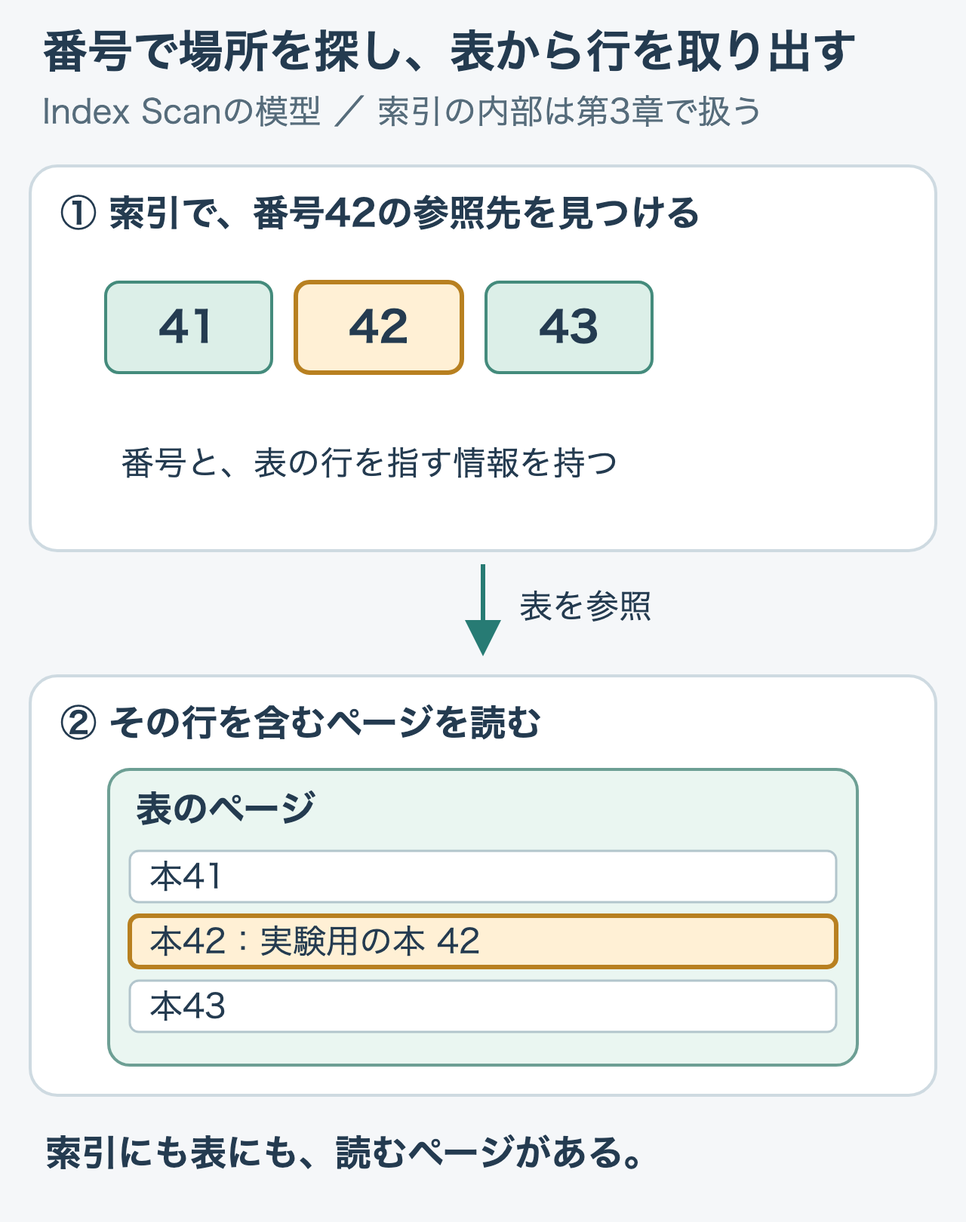
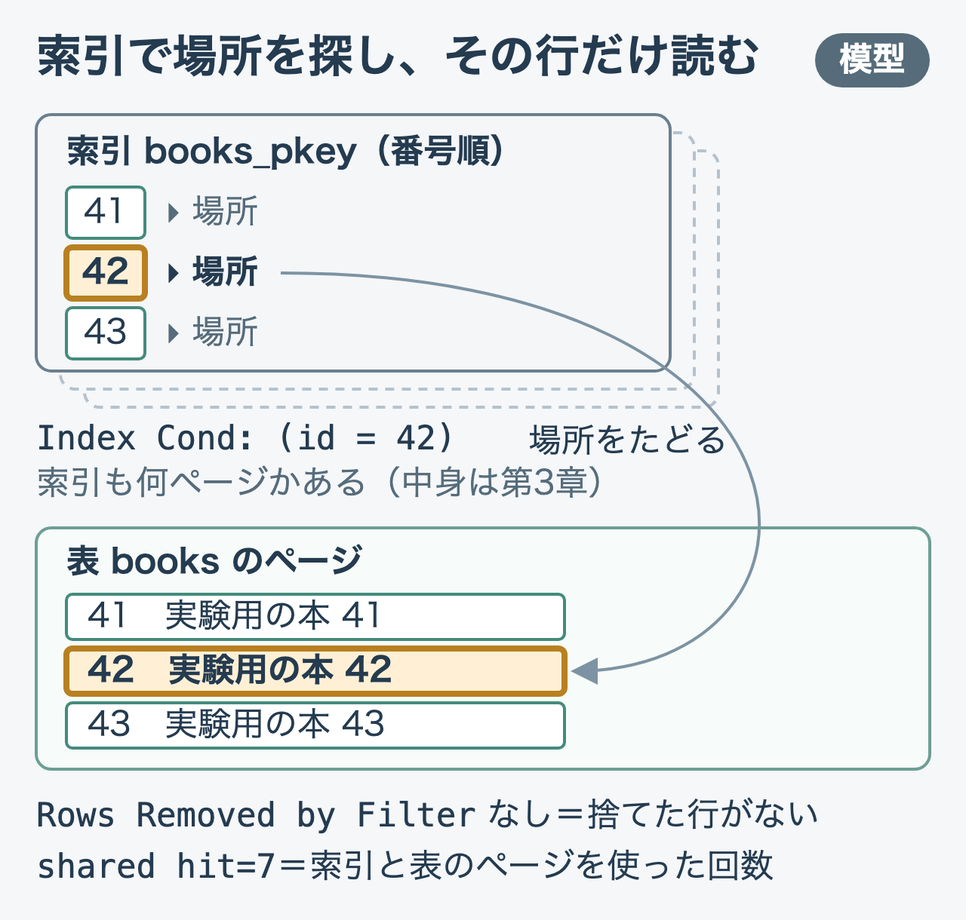
docs(query-journey): 第1章の索引の図で、項目から行への参照を1本の矢印にする
矢印がパネルからパネルへ引かれ、索引の項目がどの行を指すのかが見えなかった。索引の項目を「キー＋場所」で描き、項目42から行42へ参照の矢印を直接引いた。出力の Index Cond・Rows Removed by Filter が出ないこと・shared hit=7 を図の中に書き込んだ。

Changed region(s): [[0.0312, 0.0, 0.9688, 0.9656], [0.9375, 0.8721, 0.9688, 0.9033]]

diff --git a/images/postgresql-query-journey/index.html b/images/postgresql-query-journey/index.html
@@ -1,1 +1,1 @@
-<!doctype html><html lang="ja"><meta charset="utf-8"><meta name="viewport" content="width=device-width, initial-scale=1"><title>PostgreSQL本の図解一覧</title><style>body{margin:0;background:#f3f6f8;color:#243b50;font-family:system-ui,sans-serif}main{max-width:1250px;margin:auto;padding:32px}h1{font-size:28px}p{line-height:1.8}section{margin:48px 0}h2{border-bottom:2px solid #a8c8be;padding-bottom:12px}small{font-weight:400;font-size:16px}.grid{display:grid;grid-template-columns:repeat(3,minmax(0,1fr));gap:20px}article{background:white;border:1px solid #cedae1;border-radius:12px;padding:16px}h3{font-size:16px;min-height:48px}img{width:100%;height:auto;display:block}a{color:#176e65}article p{margin-bottom:0}@media(max-width:900px){.grid{grid-template-columns:repeat(2,minmax(0,1fr))}}@media(max-width:580px){main{padding:16px}.grid{grid-template-columns:1fr}}</style><main><h1>いつものSQLで学ぶデータ構造とアルゴリズム</h1><p>序章から第12章まで、計47枚。全体を見渡す絵、各章のサービスの場面、仕組みを理解する技術図を掲載しています。</p><section><h2>序章 <small>4枚</small></h2><div class="grid"><article><h3>この本で、一緒に調べること</h3><a href="00-book-sketch.png"><img src="00-book-sketch.png" alt="この本で、一緒に調べること" loading="lazy"></a><p><a href="sources/00-book-sketch.svg">SVG原本</a> · <a href="00-book-sketch.png">PNG</a></p></article><article><h3>こんな読書記録サービスを作ります</h3><a href="00-reading-service.png"><img src="00-reading-service.png" alt="こんな読書記録サービスを作ります" loading="lazy"></a><p><a href="sources/00-reading-service.svg">SVG原本</a> · <a href="00-reading-service.png">PNG</a></p></article><article><h3>本の冊数と、読了記録の件数</h3><a href="00-books-and-records.png"><img src="00-books-and-records.png" alt="本の冊数と、読了記録の件数" loading="lazy"></a><p><a href="sources/00-books-and-records.svg">SVG原本</a> · <a href="00-books-and-records.png">PNG</a></p></article><article><h3>20冊を返すまでに、何をしている？</h3><a href="00-ranking-question.png"><img src="00-ranking-question.png" alt="20冊を返すまでに、何をしている？" loading="lazy"></a><p><a href="sources/00-ranking-question.svg">SVG原本</a> · <a href="00-ranking-question.png">PNG</a></p></article></div></section><section><h2>第1章 <small>3枚</small></h2><div class="grid"><article><h3>まずは、1冊だけ探してみる</h3><a href="01-search-window.png"><img src="01-search-window.png" alt="まずは、1冊だけ探してみる" loading="lazy"></a><p><a href="sources/01-search-window.svg">SVG原本</a> · <a href="01-search-window.png">PNG</a></p></article><article><h3>1行のために、100万行を比べた</h3><a href="01-scan-and-filter.png"><img src="01-scan-and-filter.png" alt="1行のために、100万行を比べた" loading="lazy"></a><p><a href="sources/01-scan-and-filter.svg">SVG原本</a> · <a href="01-scan-and-filter.png">PNG</a></p></article><article><h3>番号で場所を探し、表から行を取り出す</h3><a href="01-index-to-row.png"><img src="01-index-to-row.png" alt="番号で場所を探し、表から行を取り出す" loading="lazy"></a><p><a href="sources/01-index-to-row.svg">SVG原本</a> · <a href="01-index-to-row.png">PNG</a></p></article></div></section><section><h2>第2章 <small>4枚</small></h2><div class="grid"><article><h3>100万冊から、1冊見つけたら止める？</h3><a href="05-growing-library.png"><img src="05-growing-library.png" alt="100万冊から、1冊見つけたら止める？" loading="lazy"></a><p><a href="sources/05-growing-library.svg">SVG原本</a> · <a href="05-growing-library.png">PNG</a></p></article><article><h3>一致した後も、最後まで比べる</h3><a href="05-linear-scan.png"><img src="05-linear-scan.png" alt="一致した後も、最後まで比べる" loading="lazy"></a><p><a href="sources/05-linear-scan.svg">SVG原本</a> · <a href="05-linear-scan.png">PNG</a></p></article><article><h3>Limitが次の行を求めなくなる</h3><a href="05-limit-search.png"><img src="05-limit-search.png" alt="Limitが次の行を求めなくなる" loading="lazy"></a><p><a href="sources/05-limit-search.svg">SVG原本</a> · <a href="05-limit-search.png">PNG</a></p></article><article><h3>位置で変わる、比べる行数</h3><a href="05-limit-bands.png"><img src="05-limit-bands.png" alt="位置で変わる、比べる行数" loading="lazy"></a><p><a href="sources/05-limit-bands.svg">SVG原本</a> · <a href="05-limit-bands.png">PNG</a></p></article></div></section><section><h2>第3章 <small>3枚</small></h2><div class="grid"><article><h3>8を探す：範囲を選んでから、値を探す</h3><a href="06-btree-path.png"><img src="06-btree-path.png" alt="8を探す：範囲を選んでから、値を探す" loading="lazy"></a><p><a href="sources/06-btree-path.svg">SVG原本</a> · <a href="06-btree-path.png">PNG</a></p></article><article><h3>4以上8以下なら、隣の葉も読む</h3><a href="06-range-scan.png"><img src="06-range-scan.png" alt="4以上8以下なら、隣の葉も読む" loading="lazy"></a><p><a href="sources/06-range-scan.svg">SVG原本</a> · <a href="06-range-scan.png">PNG</a></p></article><article><h3>目録も大きい。それでも速い？</h3><a href="06-catalog-question.png"><img src="06-catalog-question.png" alt="目録も大きい。それでも速い？" loading="lazy"></a><p><a href="sources/06-catalog-question.svg">SVG原本</a> · <a href="06-catalog-question.png">PNG</a></p></article></div></section><section><h2>第4章 <small>5枚</small></h2><div class="grid"><article><h3>索引をたどって、表の行へ届く</h3><a href="03-index-reference.png"><img src="03-index-reference.png" alt="索引をたどって、表の行へ届く" loading="lazy"></a><p><a href="sources/03-index-reference.svg">SVG原本</a> · <a href="03-index-reference.png">PNG</a></p></article><article><h3>表の中にページ、ページの中に行</h3><a href="03-pages-and-rows.png"><img src="03-pages-and-rows.png" alt="表の中にページ、ページの中に行" loading="lazy"></a><p><a href="sources/03-pages-and-rows.svg">SVG原本</a> · <a href="03-pages-and-rows.png">PNG</a></p></article><article><h3>同じ1,000行でも、8ページと32ページ</h3><a href="03-row-width.png"><img src="03-row-width.png" alt="同じ1,000行でも、8ページと32ページ" loading="lazy"></a><p><a href="sources/03-row-width.svg">SVG原本</a> · <a href="03-row-width.png">PNG</a></p></article><article><h3>本の一覧は、どこに保存される？</h3><a href="03-storage-question.png"><img src="03-storage-question.png" alt="本の一覧は、どこに保存される？" loading="lazy"></a><p><a href="sources/03-storage-question.svg">SVG原本</a> · <a href="03-storage-question.png">PNG</a></p></article><article><h3>ctid = (0,1) が指す場所</h3><a href="03-ctid-location.png"><img src="03-ctid-location.png" alt="ctid = (0,1) が指す場所" loading="lazy"></a><p><a href="sources/03-ctid-location.svg">SVG原本</a> · <a href="03-ctid-location.png">PNG</a></p></article></div></section><section><h2>第5章 <small>3枚</small></h2><div class="grid"><article><h3>ページの保存場所と、計算の作業場所</h3><a href="04-memory-regions.png"><img src="04-memory-regions.png" alt="ページの保存場所と、計算の作業場所" loading="lazy"></a><p><a href="sources/04-memory-regions.svg">SVG原本</a> · <a href="04-memory-regions.png">PNG</a></p></article><article><h3>ファイルのページを、メモリで再利用する</h3><a href="shared-buffer-reuse.png"><img src="shared-buffer-reuse.png" alt="ファイルのページを、メモリで再利用する" loading="lazy"></a><p><a href="sources/shared-buffer-reuse.svg">SVG原本</a> · <a href="shared-buffer-reuse.png">PNG</a></p></article><article><h3>同じ検索を、もう一度</h3><a href="04-repeat-observation.png"><img src="04-repeat-observation.png" alt="同じ検索を、もう一度" loading="lazy"></a><p><a href="sources/04-repeat-observation.svg">SVG原本</a> · <a href="04-repeat-observation.png">PNG</a></p></article></div></section><section><h2>第6章 <small>4枚</small></h2><div class="grid"><article><h3>接続ごとにプロセスが動く</h3><a href="02-connections.png"><img src="02-connections.png" alt="接続ごとにプロセスが動く" loading="lazy"></a><p><a href="sources/02-connections.svg">SVG原本</a> · <a href="02-connections.png">PNG</a></p></article><article><h3>Index Scanから、Limitへ行が渡る</h3><a href="02-execution-tree.png"><img src="02-execution-tree.png" alt="Index Scanから、Limitへ行が渡る" loading="lazy"></a><p><a href="sources/02-execution-tree.svg">SVG原本</a> · <a href="02-execution-tree.png">PNG</a></p></article><article><h3>画面の向こうで、SQLが動く</h3><a href="02-client-scene.png"><img src="02-client-scene.png" alt="画面の向こうで、SQLが動く" loading="lazy"></a><p><a href="sources/02-client-scene.svg">SVG原本</a> · <a href="02-client-scene.png">PNG</a></p></article><article><h3>SQLの文字列から、検索結果が返るまで</h3><a href="02-query-stages.png"><img src="02-query-stages.png" alt="SQLの文字列から、検索結果が返るまで" loading="lazy"></a><p><a href="sources/02-query-stages.svg">SVG原本</a> · <a href="02-query-stages.png">PNG</a></p></article></div></section><section><h2>第7章 <small>3枚</small></h2><div class="grid"><article><h3>メモリに収まらないときの並べ替え</h3><a href="07-external-sort.png"><img src="07-external-sort.png" alt="メモリに収まらないときの並べ替え" loading="lazy"></a><p><a href="sources/07-external-sort.svg">SVG原本</a> · <a href="07-external-sort.png">PNG</a></p></article><article><h3>二つの並びを、比べながら合流する</h3><a href="07-merge-cards.png"><img src="07-merge-cards.png" alt="二つの並びを、比べながら合流する" loading="lazy"></a><p><a href="sources/07-merge-cards.svg">SVG原本</a> · <a href="07-merge-cards.png">PNG</a></p></article><article><h3>読み終えた順に、並べたい</h3><a href="07-recent-records.png"><img src="07-recent-records.png" alt="読み終えた順に、並べたい" loading="lazy"></a><p><a href="sources/07-recent-records.svg">SVG原本</a> · <a href="07-recent-records.png">PNG</a></p></article></div></section><section><h2>第8章 <small>3枚</small></h2><div class="grid"><article><h3>候補を絞る方法と、途中で止まる方法</h3><a href="08-top-n-vs-index.png"><img src="08-top-n-vs-index.png" alt="候補を絞る方法と、途中で止まる方法" loading="lazy"></a><p><a href="sources/08-top-n-vs-index.svg">SVG原本</a> · <a href="08-top-n-vs-index.png">PNG</a></p></article><article><h3>上位3枚を保つ：入れ替えるのはどれ？</h3><a href="top-three-heap.png"><img src="top-three-heap.png" alt="上位3枚を保つ：入れ替えるのはどれ？" loading="lazy"></a><p><a href="sources/top-three-heap.svg">SVG原本</a> · <a href="top-three-heap.png">PNG</a></p></article><article><h3>画面に欲しいのは、最新20件</h3><a href="08-twenty-window.png"><img src="08-twenty-window.png" alt="画面に欲しいのは、最新20件" loading="lazy"></a><p><a href="sources/08-twenty-window.svg">SVG原本</a> · <a href="08-twenty-window.png">PNG</a></p></article></div></section><section><h2>第9章 <small>4枚</small></h2><div class="grid"><article><h3>先に分類し、同じ箱の中で照合する</h3><a href="09-hash-join.png"><img src="09-hash-join.png" alt="先に分類し、同じ箱の中で照合する" loading="lazy"></a><p><a href="sources/09-hash-join.svg">SVG原本</a> · <a href="09-hash-join.png">PNG</a></p></article><article><h3>並んだ二つの入力を、先頭から合わせる</h3><a href="09-merge-join.png"><img src="09-merge-join.png" alt="並んだ二つの入力を、先頭から合わせる" loading="lazy"></a><p><a href="sources/09-merge-join.svg">SVG原本</a> · <a href="09-merge-join.png">PNG</a></p></article><article><h3>記録を1件取り出すたびに、本を探す</h3><a href="09-nested-loop.png"><img src="09-nested-loop.png" alt="記録を1件取り出すたびに、本を探す" loading="lazy"></a><p><a href="sources/09-nested-loop.svg">SVG原本</a> · <a href="09-nested-loop.png">PNG</a></p></article><article><h3>本の番号だけでは、題名が分からない</h3><a href="09-title-lookup.png"><img src="09-title-lookup.png" alt="本の番号だけでは、題名が分からない" loading="lazy"></a><p><a href="sources/09-title-lookup.svg">SVG原本</a> · <a href="09-title-lookup.png">PNG</a></p></article></div></section><section><h2>第10章 <small>3枚</small></h2><div class="grid"><article><h3>入口の見積もりが、後ろの判断に響く</h3><a href="10-estimate-propagation.png"><img src="10-estimate-propagation.png" alt="入口の見積もりが、後ろの判断に響く" loading="lazy"></a><p><a href="sources/10-estimate-propagation.svg">SVG原本</a> · <a href="10-estimate-propagation.png">PNG</a></p></article><article><h3>同じ「1種類」でも、9,000行と1,000行</h3><a href="10-selectivity.png"><img src="10-selectivity.png" alt="同じ「1種類」でも、9,000行と1,000行" loading="lazy"></a><p><a href="sources/10-selectivity.svg">SVG原本</a> · <a href="10-selectivity.png">PNG</a></p></article><article><h3>索引があるのに、なぜ使わない？</h3><a href="10-planner-choice.png"><img src="10-planner-choice.png" alt="索引があるのに、なぜ使わない？" loading="lazy"></a><p><a href="sources/10-planner-choice.svg">SVG原本</a> · <a href="10-planner-choice.png">PNG</a></p></article></div></section><section><h2>第11章 <small>4枚</small></h2><div class="grid"><article><h3>読む時点によって、見える版が変わる</h3><a href="11-snapshots.png"><img src="11-snapshots.png" alt="読む時点によって、見える版が変わる" loading="lazy"></a><p><a href="sources/11-snapshots.svg">SVG原本</a> · <a href="11-snapshots.png">PNG</a></p></article><article><h3>索引だけで返せるかは、可視性にもよる</h3><a href="11-visibility-map.png"><img src="11-visibility-map.png" alt="索引だけで返せるかは、可視性にもよる" loading="lazy"></a><p><a href="sources/11-visibility-map.svg">SVG原本</a> · <a href="11-visibility-map.png">PNG</a></p></article><article><h3>ログの保存と、ページの書き出し</h3><a href="11-wal-and-pages.png"><img src="11-wal-and-pages.png" alt="ログの保存と、ページの書き出し" loading="lazy"></a><p><a href="sources/11-wal-and-pages.svg">SVG原本</a> · <a href="11-wal-and-pages.png">PNG</a></p></article><article><h3>題名を直している間に、読まれたら？</h3><a href="11-editing-scene.png"><img src="11-editing-scene.png" alt="題名を直している間に、読まれたら？" loading="lazy"></a><p><a href="sources/11-editing-scene.svg">SVG原本</a> · <a href="11-editing-scene.png">PNG</a></p></article></div></section><section><h2>第12章 <small>4枚</small></h2><div class="grid"><article><h3>表示は軽くなる。集計の更新は必要。</h3><a href="12-preaggregation.png"><img src="12-preaggregation.png" alt="表示は軽くなる。集計の更新は必要。" loading="lazy"></a><p><a href="sources/12-preaggregation.svg">SVG原本</a> · <a href="12-preaggregation.png">PNG</a></p></article><article><h3>上位を選んでから題名を付ける</h3><a href="12-ranking-after.png"><img src="12-ranking-after.png" alt="上位を選んでから題名を付ける" loading="lazy"></a><p><a href="sources/12-ranking-after.svg">SVG原本</a> · <a href="12-ranking-after.png">PNG</a></p></article><article><h3>題名を付けてから、上位を選ぶ</h3><a href="12-ranking-before.png"><img src="12-ranking-before.png" alt="題名を付けてから、上位を選ぶ" loading="lazy"></a><p><a href="sources/12-ranking-before.svg">SVG原本</a> · <a href="12-ranking-before.png">PNG</a></p></article><article><h3>今度は、根拠を持って選べる</h3><a href="12-decision-notebook.png"><img src="12-decision-notebook.png" alt="今度は、根拠を持って選べる" loading="lazy"></a><p><a href="sources/12-decision-notebook.svg">SVG原本</a> · <a href="12-decision-notebook.png">PNG</a></p></article></div></section></main></html>
+<!doctype html><html lang="ja"><meta charset="utf-8"><meta name="viewport" content="width=device-width, initial-scale=1"><title>PostgreSQL本の図解一覧</title><style>body{margin:0;background:#f3f6f8;color:#243b50;font-family:system-ui,sans-serif}main{max-width:1250px;margin:auto;padding:32px}h1{font-size:28px}p{line-height:1.8}section{margin:48px 0}h2{border-bottom:2px solid #a8c8be;padding-bottom:12px}small{font-weight:400;font-size:16px}.grid{display:grid;grid-template-columns:repeat(3,minmax(0,1fr));gap:20px}article{background:white;border:1px solid #cedae1;border-radius:12px;padding:16px}h3{font-size:16px;min-height:48px}img{width:100%;height:auto;display:block}a{color:#176e65}article p{margin-bottom:0}@media(max-width:900px){.grid{grid-template-columns:repeat(2,minmax(0,1fr))}}@media(max-width:580px){main{padding:16px}.grid{grid-template-columns:1fr}}</style><main><h1>いつものSQLで学ぶデータ構造とアルゴリズム</h1><p>序章から第12章まで、計47枚。全体を見渡す絵、各章のサービスの場面、仕組みを理解する技術図を掲載しています。</p><section><h2>序章 <small>4枚</small></h2><div class="grid"><article><h3>この本で、一緒に調べること</h3><a href="00-book-sketch.png"><img src="00-book-sketch.png" alt="この本で、一緒に調べること" loading="lazy"></a><p><a href="sources/00-book-sketch.svg">SVG原本</a> · <a href="00-book-sketch.png">PNG</a></p></article><article><h3>こんな読書記録サービスを作ります</h3><a href="00-reading-service.png"><img src="00-reading-service.png" alt="こんな読書記録サービスを作ります" loading="lazy"></a><p><a href="sources/00-reading-service.svg">SVG原本</a> · <a href="00-reading-service.png">PNG</a></p></article><article><h3>本の冊数と、読了記録の件数</h3><a href="00-books-and-records.png"><img src="00-books-and-records.png" alt="本の冊数と、読了記録の件数" loading="lazy"></a><p><a href="sources/00-books-and-records.svg">SVG原本</a> · <a href="00-books-and-records.png">PNG</a></p></article><article><h3>20冊を返すまでに、何をしている？</h3><a href="00-ranking-question.png"><img src="00-ranking-question.png" alt="20冊を返すまでに、何をしている？" loading="lazy"></a><p><a href="sources/00-ranking-question.svg">SVG原本</a> · <a href="00-ranking-question.png">PNG</a></p></article></div></section><section><h2>第1章 <small>3枚</small></h2><div class="grid"><article><h3>まずは、1冊だけ探してみる</h3><a href="01-search-window.png"><img src="01-search-window.png" alt="まずは、1冊だけ探してみる" loading="lazy"></a><p><a href="sources/01-search-window.svg">SVG原本</a> · <a href="01-search-window.png">PNG</a></p></article><article><h3>1行のために、100万行を比べた</h3><a href="01-scan-and-filter.png"><img src="01-scan-and-filter.png" alt="1行のために、100万行を比べた" loading="lazy"></a><p><a href="sources/01-scan-and-filter.svg">SVG原本</a> · <a href="01-scan-and-filter.png">PNG</a></p></article><article><h3>索引で場所を探し、その行だけ読む</h3><a href="01-index-to-row.png"><img src="01-index-to-row.png" alt="索引で場所を探し、その行だけ読む" loading="lazy"></a><p><a href="sources/01-index-to-row.svg">SVG原本</a> · <a href="01-index-to-row.png">PNG</a></p></article></div></section><section><h2>第2章 <small>4枚</small></h2><div class="grid"><article><h3>100万冊から、1冊見つけたら止める？</h3><a href="05-growing-library.png"><img src="05-growing-library.png" alt="100万冊から、1冊見つけたら止める？" loading="lazy"></a><p><a href="sources/05-growing-library.svg">SVG原本</a> · <a href="05-growing-library.png">PNG</a></p></article><article><h3>一致した後も、最後まで比べる</h3><a href="05-linear-scan.png"><img src="05-linear-scan.png" alt="一致した後も、最後まで比べる" loading="lazy"></a><p><a href="sources/05-linear-scan.svg">SVG原本</a> · <a href="05-linear-scan.png">PNG</a></p></article><article><h3>Limitが次の行を求めなくなる</h3><a href="05-limit-search.png"><img src="05-limit-search.png" alt="Limitが次の行を求めなくなる" loading="lazy"></a><p><a href="sources/05-limit-search.svg">SVG原本</a> · <a href="05-limit-search.png">PNG</a></p></article><article><h3>位置で変わる、比べる行数</h3><a href="05-limit-bands.png"><img src="05-limit-bands.png" alt="位置で変わる、比べる行数" loading="lazy"></a><p><a href="sources/05-limit-bands.svg">SVG原本</a> · <a href="05-limit-bands.png">PNG</a></p></article></div></section><section><h2>第3章 <small>3枚</small></h2><div class="grid"><article><h3>8を探す：範囲を選んでから、値を探す</h3><a href="06-btree-path.png"><img src="06-btree-path.png" alt="8を探す：範囲を選んでから、値を探す" loading="lazy"></a><p><a href="sources/06-btree-path.svg">SVG原本</a> · <a href="06-btree-path.png">PNG</a></p></article><article><h3>4以上8以下なら、隣の葉も読む</h3><a href="06-range-scan.png"><img src="06-range-scan.png" alt="4以上8以下なら、隣の葉も読む" loading="lazy"></a><p><a href="sources/06-range-scan.svg">SVG原本</a> · <a href="06-range-scan.png">PNG</a></p></article><article><h3>目録も大きい。それでも速い？</h3><a href="06-catalog-question.png"><img src="06-catalog-question.png" alt="目録も大きい。それでも速い？" loading="lazy"></a><p><a href="sources/06-catalog-question.svg">SVG原本</a> · <a href="06-catalog-question.png">PNG</a></p></article></div></section><section><h2>第4章 <small>5枚</small></h2><div class="grid"><article><h3>索引をたどって、表の行へ届く</h3><a href="03-index-reference.png"><img src="03-index-reference.png" alt="索引をたどって、表の行へ届く" loading="lazy"></a><p><a href="sources/03-index-reference.svg">SVG原本</a> · <a href="03-index-reference.png">PNG</a></p></article><article><h3>表の中にページ、ページの中に行</h3><a href="03-pages-and-rows.png"><img src="03-pages-and-rows.png" alt="表の中にページ、ページの中に行" loading="lazy"></a><p><a href="sources/03-pages-and-rows.svg">SVG原本</a> · <a href="03-pages-and-rows.png">PNG</a></p></article><article><h3>同じ1,000行でも、8ページと32ページ</h3><a href="03-row-width.png"><img src="03-row-width.png" alt="同じ1,000行でも、8ページと32ページ" loading="lazy"></a><p><a href="sources/03-row-width.svg">SVG原本</a> · <a href="03-row-width.png">PNG</a></p></article><article><h3>本の一覧は、どこに保存される？</h3><a href="03-storage-question.png"><img src="03-storage-question.png" alt="本の一覧は、どこに保存される？" loading="lazy"></a><p><a href="sources/03-storage-question.svg">SVG原本</a> · <a href="03-storage-question.png">PNG</a></p></article><article><h3>ctid = (0,1) が指す場所</h3><a href="03-ctid-location.png"><img src="03-ctid-location.png" alt="ctid = (0,1) が指す場所" loading="lazy"></a><p><a href="sources/03-ctid-location.svg">SVG原本</a> · <a href="03-ctid-location.png">PNG</a></p></article></div></section><section><h2>第5章 <small>3枚</small></h2><div class="grid"><article><h3>ページの保存場所と、計算の作業場所</h3><a href="04-memory-regions.png"><img src="04-memory-regions.png" alt="ページの保存場所と、計算の作業場所" loading="lazy"></a><p><a href="sources/04-memory-regions.svg">SVG原本</a> · <a href="04-memory-regions.png">PNG</a></p></article><article><h3>ファイルのページを、メモリで再利用する</h3><a href="shared-buffer-reuse.png"><img src="shared-buffer-reuse.png" alt="ファイルのページを、メモリで再利用する" loading="lazy"></a><p><a href="sources/shared-buffer-reuse.svg">SVG原本</a> · <a href="shared-buffer-reuse.png">PNG</a></p></article><article><h3>同じ検索を、もう一度</h3><a href="04-repeat-observation.png"><img src="04-repeat-observation.png" alt="同じ検索を、もう一度" loading="lazy"></a><p><a href="sources/04-repeat-observation.svg">SVG原本</a> · <a href="04-repeat-observation.png">PNG</a></p></article></div></section><section><h2>第6章 <small>4枚</small></h2><div class="grid"><article><h3>接続ごとにプロセスが動く</h3><a href="02-connections.png"><img src="02-connections.png" alt="接続ごとにプロセスが動く" loading="lazy"></a><p><a href="sources/02-connections.svg">SVG原本</a> · <a href="02-connections.png">PNG</a></p></article><article><h3>Index Scanから、Limitへ行が渡る</h3><a href="02-execution-tree.png"><img src="02-execution-tree.png" alt="Index Scanから、Limitへ行が渡る" loading="lazy"></a><p><a href="sources/02-execution-tree.svg">SVG原本</a> · <a href="02-execution-tree.png">PNG</a></p></article><article><h3>画面の向こうで、SQLが動く</h3><a href="02-client-scene.png"><img src="02-client-scene.png" alt="画面の向こうで、SQLが動く" loading="lazy"></a><p><a href="sources/02-client-scene.svg">SVG原本</a> · <a href="02-client-scene.png">PNG</a></p></article><article><h3>SQLの文字列から、検索結果が返るまで</h3><a href="02-query-stages.png"><img src="02-query-stages.png" alt="SQLの文字列から、検索結果が返るまで" loading="lazy"></a><p><a href="sources/02-query-stages.svg">SVG原本</a> · <a href="02-query-stages.png">PNG</a></p></article></div></section><section><h2>第7章 <small>3枚</small></h2><div class="grid"><article><h3>メモリに収まらないときの並べ替え</h3><a href="07-external-sort.png"><img src="07-external-sort.png" alt="メモリに収まらないときの並べ替え" loading="lazy"></a><p><a href="sources/07-external-sort.svg">SVG原本</a> · <a href="07-external-sort.png">PNG</a></p></article><article><h3>二つの並びを、比べながら合流する</h3><a href="07-merge-cards.png"><img src="07-merge-cards.png" alt="二つの並びを、比べながら合流する" loading="lazy"></a><p><a href="sources/07-merge-cards.svg">SVG原本</a> · <a href="07-merge-cards.png">PNG</a></p></article><article><h3>読み終えた順に、並べたい</h3><a href="07-recent-records.png"><img src="07-recent-records.png" alt="読み終えた順に、並べたい" loading="lazy"></a><p><a href="sources/07-recent-records.svg">SVG原本</a> · <a href="07-recent-records.png">PNG</a></p></article></div></section><section><h2>第8章 <small>3枚</small></h2><div class="grid"><article><h3>候補を絞る方法と、途中で止まる方法</h3><a href="08-top-n-vs-index.png"><img src="08-top-n-vs-index.png" alt="候補を絞る方法と、途中で止まる方法" loading="lazy"></a><p><a href="sources/08-top-n-vs-index.svg">SVG原本</a> · <a href="08-top-n-vs-index.png">PNG</a></p></article><article><h3>上位3枚を保つ：入れ替えるのはどれ？</h3><a href="top-three-heap.png"><img src="top-three-heap.png" alt="上位3枚を保つ：入れ替えるのはどれ？" loading="lazy"></a><p><a href="sources/top-three-heap.svg">SVG原本</a> · <a href="top-three-heap.png">PNG</a></p></article><article><h3>画面に欲しいのは、最新20件</h3><a href="08-twenty-window.png"><img src="08-twenty-window.png" alt="画面に欲しいのは、最新20件" loading="lazy"></a><p><a href="sources/08-twenty-window.svg">SVG原本</a> · <a href="08-twenty-window.png">PNG</a></p></article></div></section><section><h2>第9章 <small>4枚</small></h2><div class="grid"><article><h3>先に分類し、同じ箱の中で照合する</h3><a href="09-hash-join.png"><img src="09-hash-join.png" alt="先に分類し、同じ箱の中で照合する" loading="lazy"></a><p><a href="sources/09-hash-join.svg">SVG原本</a> · <a href="09-hash-join.png">PNG</a></p></article><article><h3>並んだ二つの入力を、先頭から合わせる</h3><a href="09-merge-join.png"><img src="09-merge-join.png" alt="並んだ二つの入力を、先頭から合わせる" loading="lazy"></a><p><a href="sources/09-merge-join.svg">SVG原本</a> · <a href="09-merge-join.png">PNG</a></p></article><article><h3>記録を1件取り出すたびに、本を探す</h3><a href="09-nested-loop.png"><img src="09-nested-loop.png" alt="記録を1件取り出すたびに、本を探す" loading="lazy"></a><p><a href="sources/09-nested-loop.svg">SVG原本</a> · <a href="09-nested-loop.png">PNG</a></p></article><article><h3>本の番号だけでは、題名が分からない</h3><a href="09-title-lookup.png"><img src="09-title-lookup.png" alt="本の番号だけでは、題名が分からない" loading="lazy"></a><p><a href="sources/09-title-lookup.svg">SVG原本</a> · <a href="09-title-lookup.png">PNG</a></p></article></div></section><section><h2>第10章 <small>3枚</small></h2><div class="grid"><article><h3>入口の見積もりが、後ろの判断に響く</h3><a href="10-estimate-propagation.png"><img src="10-estimate-propagation.png" alt="入口の見積もりが、後ろの判断に響く" loading="lazy"></a><p><a href="sources/10-estimate-propagation.svg">SVG原本</a> · <a href="10-estimate-propagation.png">PNG</a></p></article><article><h3>同じ「1種類」でも、9,000行と1,000行</h3><a href="10-selectivity.png"><img src="10-selectivity.png" alt="同じ「1種類」でも、9,000行と1,000行" loading="lazy"></a><p><a href="sources/10-selectivity.svg">SVG原本</a> · <a href="10-selectivity.png">PNG</a></p></article><article><h3>索引があるのに、なぜ使わない？</h3><a href="10-planner-choice.png"><img src="10-planner-choice.png" alt="索引があるのに、なぜ使わない？" loading="lazy"></a><p><a href="sources/10-planner-choice.svg">SVG原本</a> · <a href="10-planner-choice.png">PNG</a></p></article></div></section><section><h2>第11章 <small>4枚</small></h2><div class="grid"><article><h3>読む時点によって、見える版が変わる</h3><a href="11-snapshots.png"><img src="11-snapshots.png" alt="読む時点によって、見える版が変わる" loading="lazy"></a><p><a href="sources/11-snapshots.svg">SVG原本</a> · <a href="11-snapshots.png">PNG</a></p></article><article><h3>索引だけで返せるかは、可視性にもよる</h3><a href="11-visibility-map.png"><img src="11-visibility-map.png" alt="索引だけで返せるかは、可視性にもよる" loading="lazy"></a><p><a href="sources/11-visibility-map.svg">SVG原本</a> · <a href="11-visibility-map.png">PNG</a></p></article><article><h3>ログの保存と、ページの書き出し</h3><a href="11-wal-and-pages.png"><img src="11-wal-and-pages.png" alt="ログの保存と、ページの書き出し" loading="lazy"></a><p><a href="sources/11-wal-and-pages.svg">SVG原本</a> · <a href="11-wal-and-pages.png">PNG</a></p></article><article><h3>題名を直している間に、読まれたら？</h3><a href="11-editing-scene.png"><img src="11-editing-scene.png" alt="題名を直している間に、読まれたら？" loading="lazy"></a><p><a href="sources/11-editing-scene.svg">SVG原本</a> · <a href="11-editing-scene.png">PNG</a></p></article></div></section><section><h2>第12章 <small>4枚</small></h2><div class="grid"><article><h3>表示は軽くなる。集計の更新は必要。</h3><a href="12-preaggregation.png"><img src="12-preaggregation.png" alt="表示は軽くなる。集計の更新は必要。" loading="lazy"></a><p><a href="sources/12-preaggregation.svg">SVG原本</a> · <a href="12-preaggregation.png">PNG</a></p></article><article><h3>上位を選んでから題名を付ける</h3><a href="12-ranking-after.png"><img src="12-ranking-after.png" alt="上位を選んでから題名を付ける" loading="lazy"></a><p><a href="sources/12-ranking-after.svg">SVG原本</a> · <a href="12-ranking-after.png">PNG</a></p></article><article><h3>題名を付けてから、上位を選ぶ</h3><a href="12-ranking-before.png"><img src="12-ranking-before.png" alt="題名を付けてから、上位を選ぶ" loading="lazy"></a><p><a href="sources/12-ranking-before.svg">SVG原本</a> · <a href="12-ranking-before.png">PNG</a></p></article><article><h3>今度は、根拠を持って選べる</h3><a href="12-decision-notebook.png"><img src="12-decision-notebook.png" alt="今度は、根拠を持って選べる" loading="lazy"></a><p><a href="sources/12-decision-notebook.svg">SVG原本</a> · <a href="12-decision-notebook.png">PNG</a></p></article></div></section></main></html>

diff --git a/books/postgresql-query-journey/01-explain-basics.md b/books/postgresql-query-journey/01-explain-basics.md
@@ -296,8 +296,8 @@ Execution Time: 0.026 ms
 
 索引を使う場合は、まず行の場所を探し、その場所の行を読みます。
 
-![番号で場所を探し、表から行を取り出す](/images/postgresql-query-journey/01-index-to-row.png)
-*Index Scanの模型。索引の内部は第3章で扱います。*
+![索引の項目42が持つ場所をたどり、表のページから本42の行だけを読む](/images/postgresql-query-journey/01-index-to-row.png)
+*索引で行の場所を見つけ、その場所の行だけを読む模型。索引の中身は第3章で扱います。*
 
 そのとき、索引自体もページとして読みます。そのため、結果が1行でもページアクセスは1回とは限りません。
 
